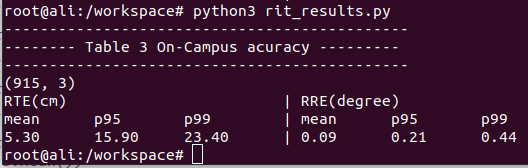
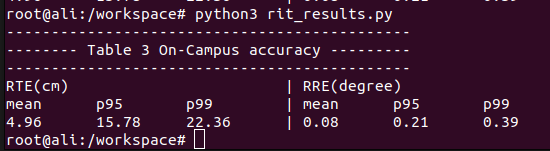
updated README

diff --git a/rit_results.py b/rit_results.py
@@ -74,6 +74,7 @@ accuracy_dataset_3 = compile_accuracy(dataset_path_base +"3/vrf/")
 accuracy_dataset_4 = compile_accuracy(dataset_path_base +"4/vrf/")
 accuracy_dataset_5 = compile_accuracy(dataset_path_base +"5/vrf/")
 accuracy_dataset_6 = compile_accuracy(dataset_path_base +"6/vrf/")
+accuracy_dataset_6 = accuracy_dataset_6.drop([141, 142])
 accuracy_df = pd.concat([accuracy_dataset_1, accuracy_dataset_2, accuracy_dataset_3, accuracy_dataset_4, accuracy_dataset_5, accuracy_dataset_6], ignore_index=True)
 
 
@@ -82,29 +83,29 @@ accuracy_df = pd.concat([accuracy_dataset_1, accuracy_dataset_2, accuracy_datase
 ## Accuracy results
 ## ------------------------------------------------------------
 
-#print('---------------------------------------------')
-#print("accuracy dataset 1")
-#print(accuracy_dataset_1.mean())
-#print('---------------------------------------------')
-#print("accuracy dataset 2")
-#print(accuracy_dataset_2.mean())
-#print('---------------------------------------------')
-#print("accuracy dataset 3")
-#print(accuracy_dataset_3.mean())
-#print('---------------------------------------------')
-#print("accuracy dataset 4")
-#print(accuracy_dataset_4.mean())
-#print('---------------------------------------------')
-#print("accuracy dataset 5")
-#print(accuracy_dataset_5.mean())
-#print('---------------------------------------------')
-#print("accuracy dataset 6")
-#print(accuracy_dataset_6.mean())
-#print('---------------------------------------------')
+# print('---------------------------------------------')
+# print("accuracy dataset 1")
+# print(accuracy_dataset_1.mean())
+# print('---------------------------------------------')
+# print("accuracy dataset 2")
+# print(accuracy_dataset_2.mean())
+# print('---------------------------------------------')
+# print("accuracy dataset 3")
+# print(accuracy_dataset_3.mean())
+# print('---------------------------------------------')
+# print("accuracy dataset 4")
+# print(accuracy_dataset_4.mean())
+# print('---------------------------------------------')
+# print("accuracy dataset 5")
+# print(accuracy_dataset_5.mean())
+# print('---------------------------------------------')
+# print("accuracy dataset 6")
+# print(accuracy_dataset_6.mean())
+# print('---------------------------------------------')
 print('---------------------------------------------')
-print('-------- Table 3 On-Campus acuracy --------- ')
+print('-------- Table 3 On-Campus accuracy --------- ')
 print('---------------------------------------------')
-print(accuracy_df.shape)
+# print(accuracy_df.shape)
 print(f"{'RTE(cm)':<10}{'':<10}{'':<10} | {'RRE(degree)':<10}{'':<10} {'':<10}")
 print(f"{'mean':<10}{'p95':<10}{'p99':<10} | {'mean':<10}{'p95':<10}{'p99':<10}")
 print(f"{(accuracy_df['RTE_w_icp'].mean()):<10.2f}{accuracy_df['RTE_w_icp'].quantile(0.95):<10.2f}{accuracy_df['RTE_w_icp'].quantile(0.99):<10.2f} \

diff --git a/carla_results.py b/carla_results.py
@@ -79,7 +79,7 @@ accuracy_df = pd.concat([accuracy_dataset_1, accuracy_dataset_2, accuracy_datase
 
 
 print('---------------------------------------------')
-print('----------- Table 3 Carla acuracy ---------- ')
+print('---------- Table 3 Carla accuracy ---------- ')
 print('---------------------------------------------')
 print(f"{'RTE(cm)':<10}{'':<10}{'':<10} | {'RRE(degree)':<10}{'':<10} {'':<10}")
 print(f"{'mean':<10}{'p95':<10}{'p99':<10} | {'mean':<10}{'p95':<10}{'p99':<10}")

diff --git a/usc_results.py b/usc_results.py
@@ -86,7 +86,7 @@ accuracy_df = accuracy_df.reset_index(drop=True)
 
 
 print('---------------------------------------------')
-print('-------- Table 3 Off-Campus acuracy --------- ')
+print('------- Table 3 Off-Campus accuracy -------- ')
 print('---------------------------------------------')
 print(accuracy_df.shape)
 print(f"{'RTE(cm)':<10}{'':<10}{'':<10} | {'RRE(degree)':<10}{'':<10} {'':<10}")

diff --git a/README.md b/README.md
@@ -89,19 +89,19 @@ After the output stops, press enter and you'll be back to the terminal.
 source setup_env.bash
 rosrun fast_gicp infra_3
 ```
-After runing the above two commands wait until you say `Going into ros::spin() ...`
+After runing the above two commands wait until you say `Going into ros::spin() ...` <br>
 **Terminal#2**
 ```
 source setup_env.bash
 rosrun fast_gicp vehicle_ndt_5
 ```
-After runing the above two commands wait until you say `Going into ros::spin() ...`
+After runing the above two commands wait until you say `Going into ros::spin() ...` <br>
 **Terminal#3**
 ```
 source setup_env.bash
 rosrun fast_gicp vehicle_fusion_5
 ```
-After runing the above two commands wait until you say `Going into ros::spin() ...`
+After runing the above two commands wait until you say `Going into ros::spin() ...`<br>
 **Terminal#4**
 ```
 source setup_env.bash
